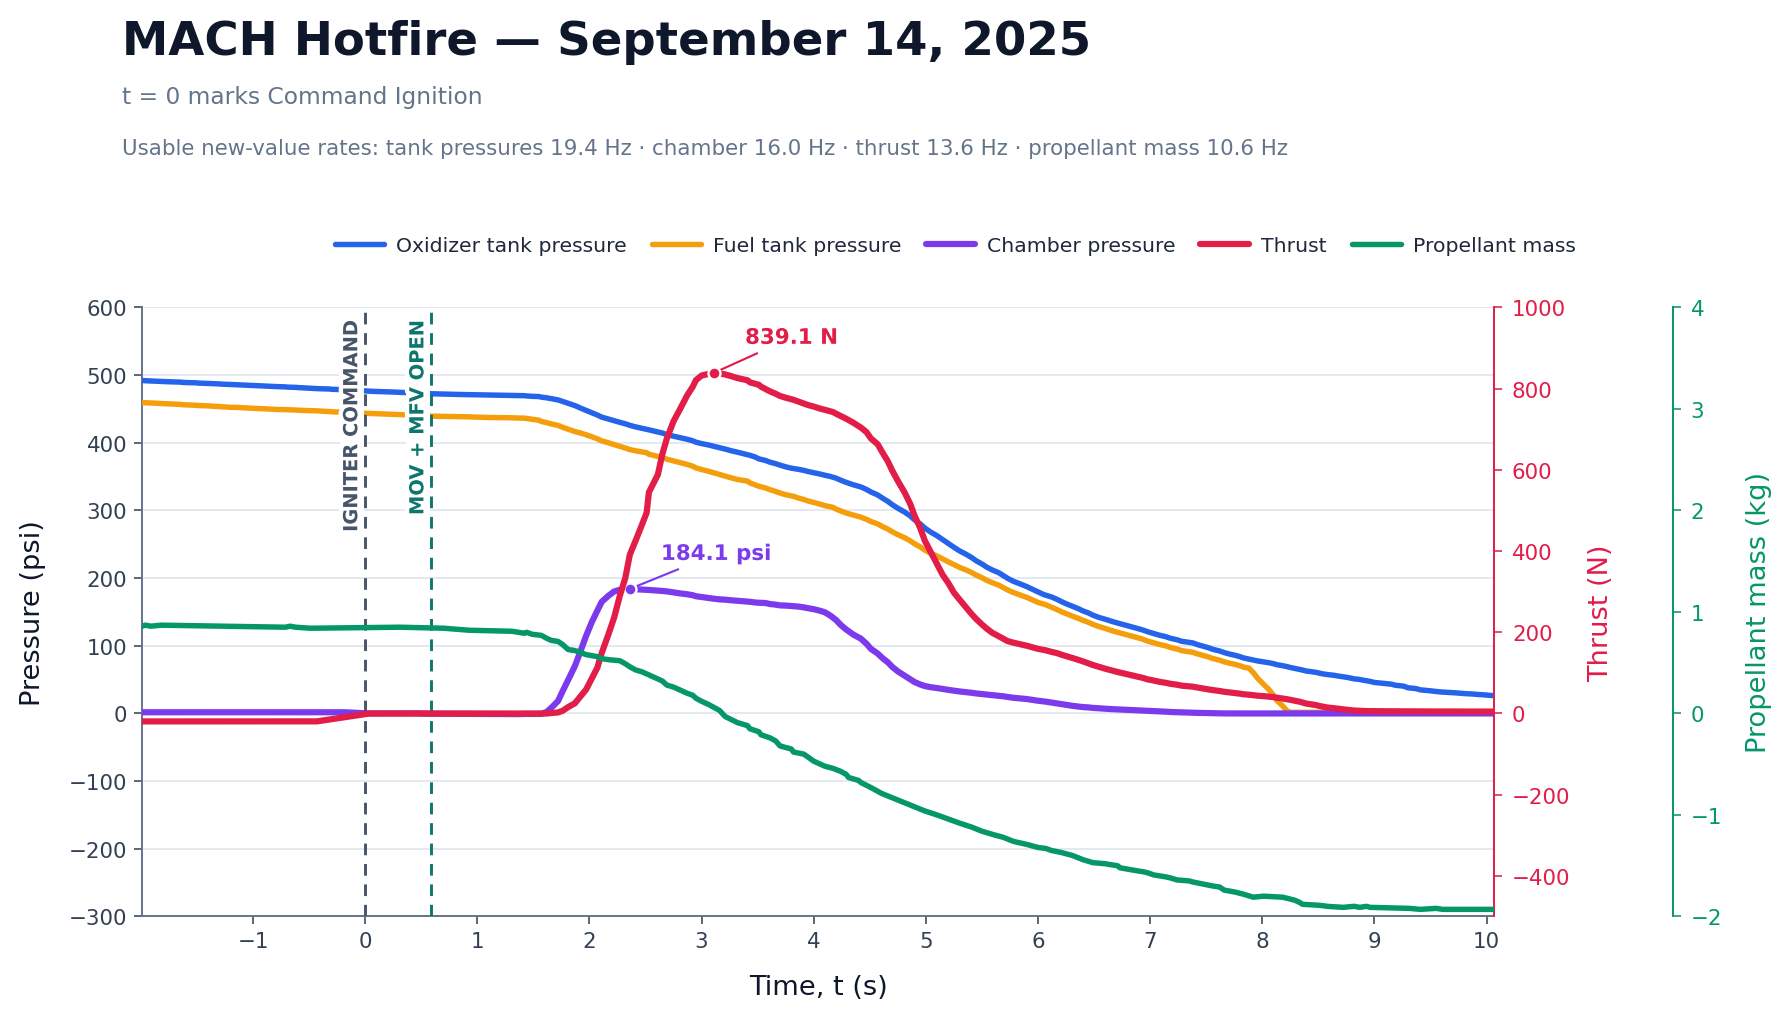
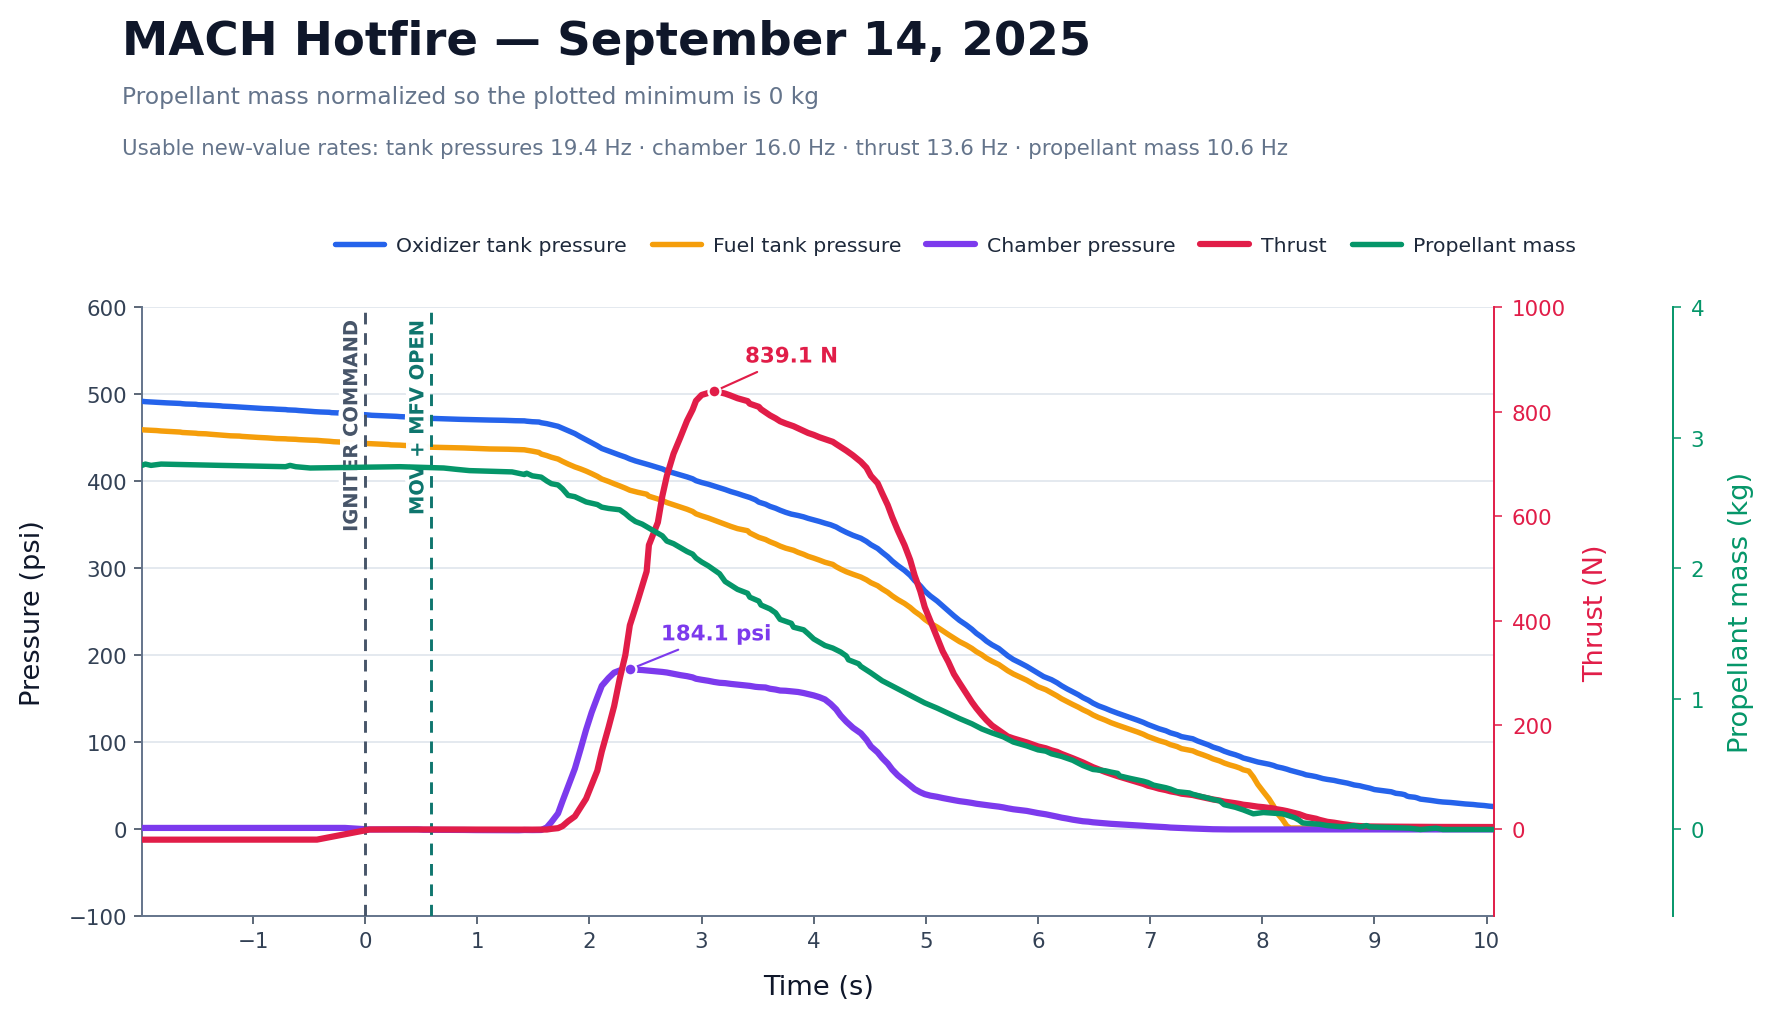
Normalize September propellant mass plot

diff --git a/scripts/plot_standard_hotfires.py b/scripts/plot_standard_hotfires.py
@@ -35,6 +35,7 @@ CONFIGS = [
         "output": ROOT / "docs/SPRINT/sept-13-hotfire/sprint-hotfire3-perf.png",
         "clock": "System Clock",
         "thrust": "Thrust (kg)",
+        "normalize_mass_to_minimum": True,
     },
     {
         "date": "December 16, 2025",
@@ -251,6 +252,10 @@ def make_plot(config: dict) -> None:
         key: [row[key] for row in rows]
         for key in ("oxidizer", "fuel", "chamber", "thrust", "mass")
     }
+    mass_offset = 0.0
+    if config.get("normalize_mass_to_minimum"):
+        mass_offset = min(values["mass"])
+        values["mass"] = [value - mass_offset for value in values["mass"]]
 
     pressure_limits, thrust_limits, mass_limits = aligned_axis_limits(
         values["oxidizer"] + values["fuel"] + values["chamber"],
@@ -349,7 +354,7 @@ def make_plot(config: dict) -> None:
     mass_axis.spines["right"].set_linewidth(1.0)
     mass_axis.tick_params(axis="y", colors=COLORS["mass"], length=4, pad=5)
 
-    pressure_axis.set_xlabel("Time, t (s)", color="#0F172A", labelpad=12)
+    pressure_axis.set_xlabel("Time (s)", color="#0F172A", labelpad=12)
     pressure_axis.set_ylabel("Pressure (psi)", color="#0F172A", labelpad=12)
     thrust_axis.set_ylabel("Thrust (N)", color=COLORS["thrust"], labelpad=9)
     mass_axis.set_ylabel("Propellant mass (kg)", color=COLORS["mass"], labelpad=12)
@@ -384,12 +389,15 @@ def make_plot(config: dict) -> None:
         fontweight="bold",
     )
     propellant_load = config.get("propellant_load")
-    subtitle = (
-        f"Propellant load: fuel {propellant_load['fuel']:.2f} kg · "
-        f"oxidizer {propellant_load['oxidizer']:.2f} kg"
-        if propellant_load
-        else "t = 0 marks Command Ignition"
-    )
+    if config.get("normalize_mass_to_minimum"):
+        subtitle = "Propellant mass normalized so the plotted minimum is 0 kg"
+    elif propellant_load:
+        subtitle = (
+            f"Propellant load: fuel {propellant_load['fuel']:.2f} kg · "
+            f"oxidizer {propellant_load['oxidizer']:.2f} kg"
+        )
+    else:
+        subtitle = "t = 0 marks Command Ignition"
     figure.text(
         0.075,
         0.890,
@@ -450,7 +458,10 @@ def make_plot(config: dict) -> None:
         pad_inches=0.14,
     )
     plt.close(figure)
-    print(f"{config['output']} (three-axis zero delta: {zero_delta:.6f} px)")
+    mass_note = f"; mass offset={mass_offset:.3f} kg" if config.get("normalize_mass_to_minimum") else ""
+    print(
+        f"{config['output']} (three-axis zero delta: {zero_delta:.6f} px{mass_note})"
+    )
 
 
 def main() -> None:

diff --git a/docs/SPRINT/sept-13-hotfire.md b/docs/SPRINT/sept-13-hotfire.md
@@ -14,7 +14,7 @@ Two additional hot fires were completed on September 14. The first again lost da
 
 ## Final Run Measurements
 
-The September 14 telemetry reached 839.1 N peak thrust and 184.1 psi peak chamber pressure. Contemporary analysis reported approximately 2.4 kN·s total impulse. After unchanged duplicate samples were removed without smoothing, usable new-value rates were 19.4 Hz for tank pressure, 16.0 Hz for chamber pressure, 13.6 Hz for thrust and 10.6 Hz for tank mass.
+The September 14 telemetry reached 839.1 N peak thrust and 184.1 psi peak chamber pressure. Contemporary analysis reported approximately 2.4 kN·s total impulse. The graph offsets the propellant-mass channel so its minimum plotted reading is 0 kg; pressure and thrust values are unchanged. After unchanged duplicate samples were removed without smoothing, usable new-value rates were 19.4 Hz for tank pressure, 16.0 Hz for chamber pressure, 13.6 Hz for thrust and 10.6 Hz for propellant mass.
 
 ## Test Videos
 
@@ -37,8 +37,8 @@ The September 14 telemetry reached 839.1 N peak thrust and 184.1 psi peak chambe
 ## Burn Telemetry
 
 <figure style="margin:2rem auto; display:flex; flex-direction:column; align-items:center; justify-content:center; width:100%; text-align:center;">
-  <img src="/SPRINT/sept-13-hotfire/sprint-hotfire3-perf.png" alt="SPRINT burn telemetry for September 14th, 2025" loading="lazy" decoding="async" style="width:100%; max-width:1000px; height:auto; border-radius:8px; display:block; margin:0 auto; object-fit:contain;">
-  <figcaption style="font-size:0.9rem; color:#888; margin-top:0.5rem;">Unsmoothed telemetry from the final September 14 firing.</figcaption>
+  <img src="/SPRINT/sept-13-hotfire/sprint-hotfire3-perf.png" alt="SPRINT burn telemetry for September 14th, 2025 with propellant mass normalized to a minimum of zero kilograms" loading="lazy" decoding="async" style="width:100%; max-width:1000px; height:auto; border-radius:8px; display:block; margin:0 auto; object-fit:contain;">
+  <figcaption style="font-size:0.9rem; color:#888; margin-top:0.5rem;">Unsmoothed telemetry from the final September 14 firing; propellant mass is normalized to a minimum of 0 kg.</figcaption>
 </figure>
 
 ## Team Photo
